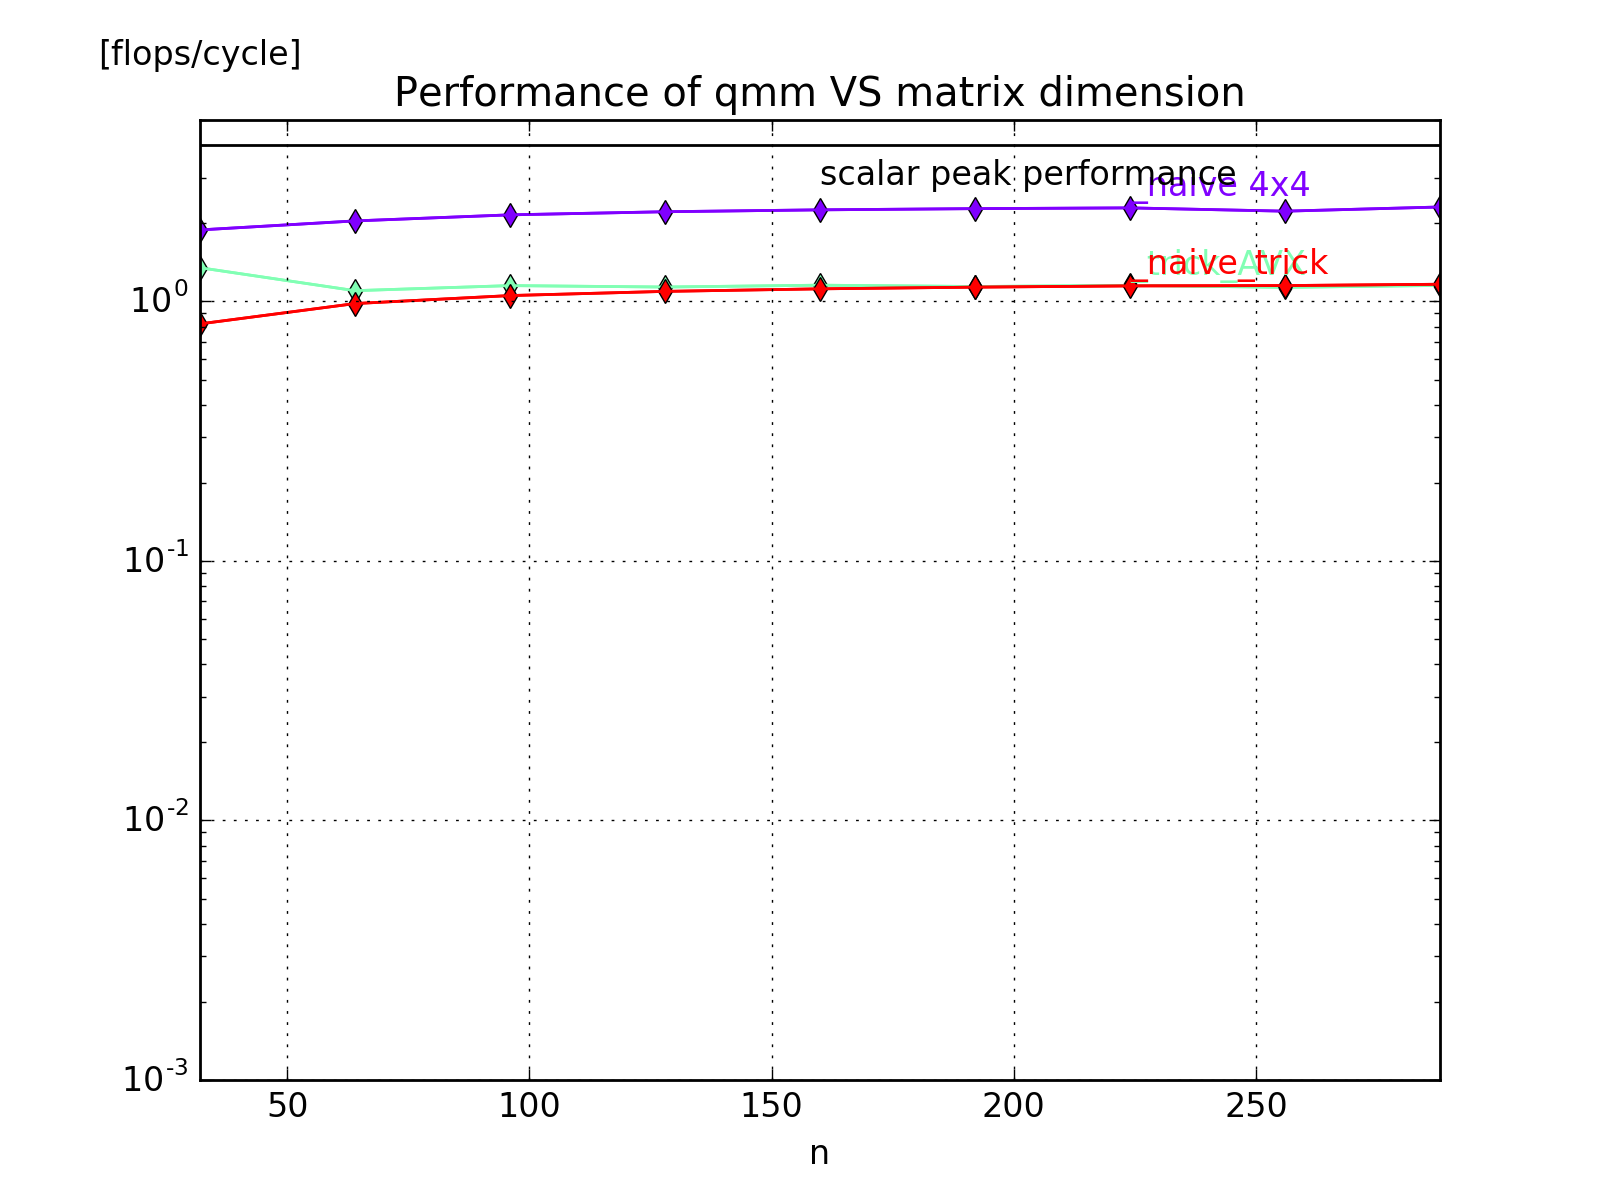
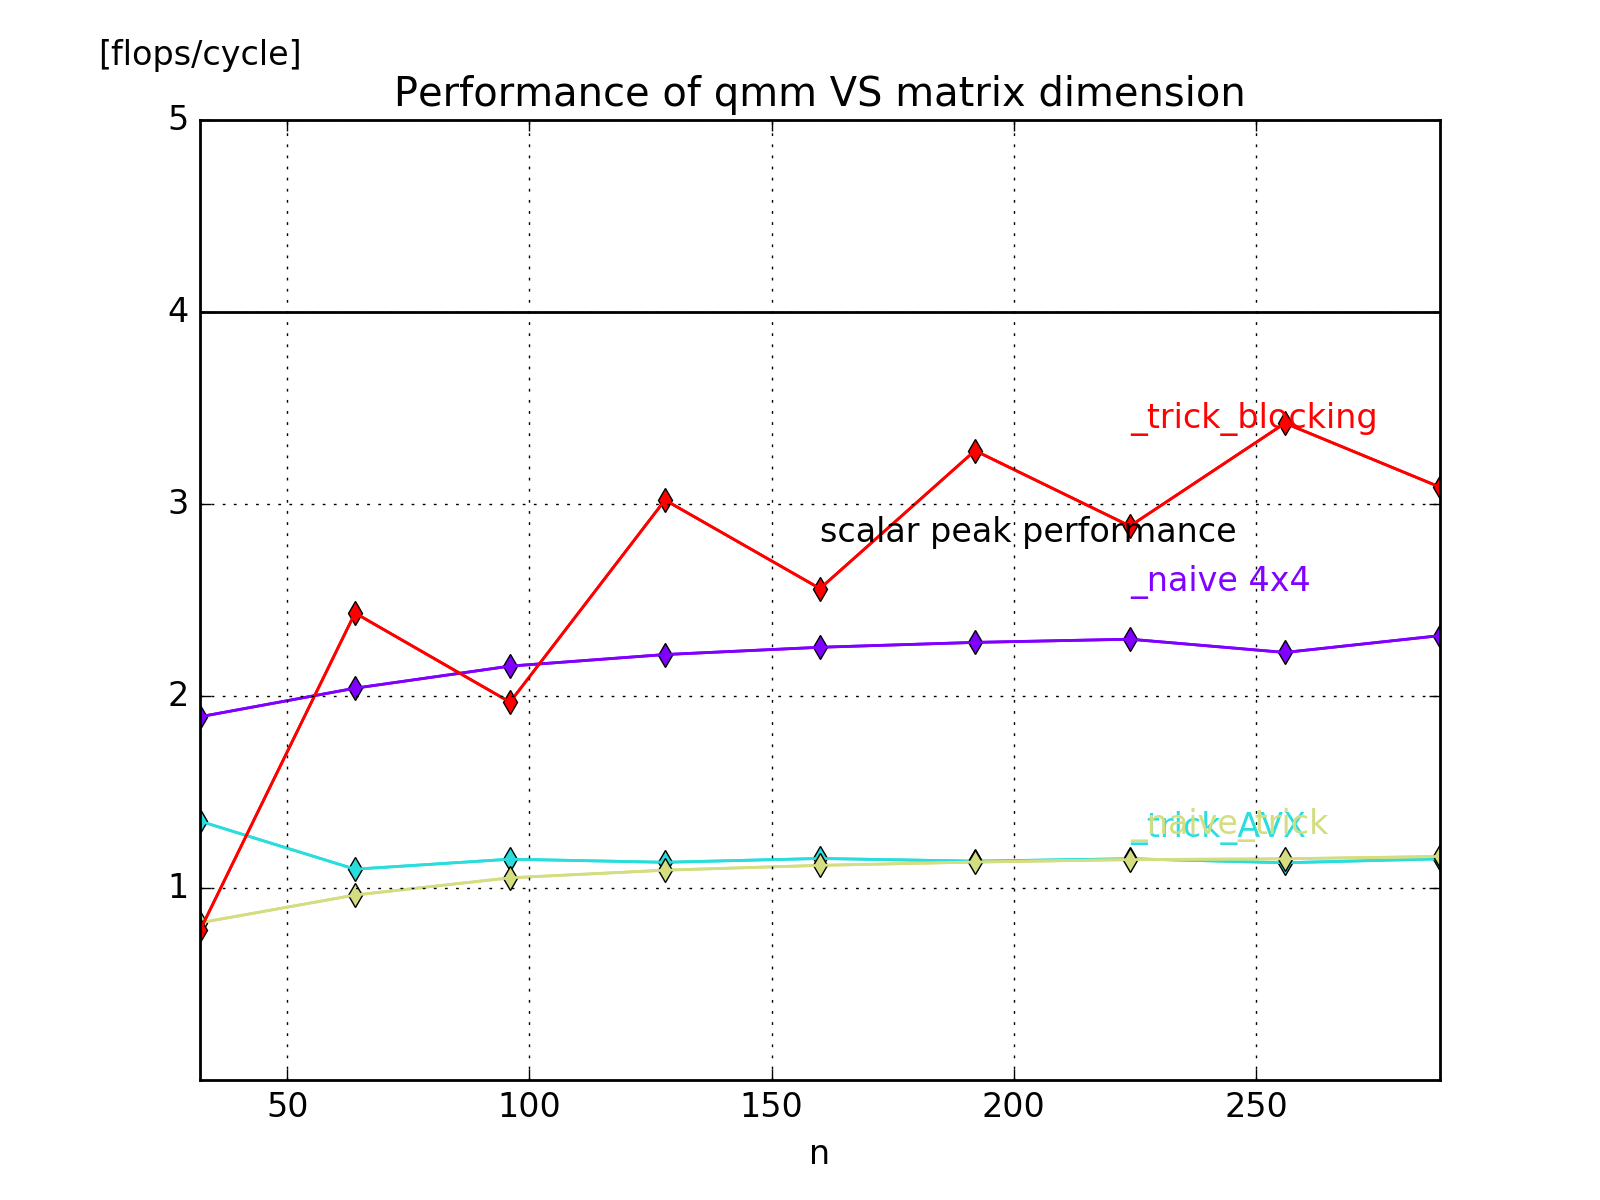
add plots and data for performance qmm_blocking

diff --git a/qmm.h b/qmm.h
@@ -13,6 +13,10 @@ void qmm_trick(float l_scale, float r_scale, float result_scale, uint4x4_t l_off
 	uint4x4_t result_offset, uint4x4_t* l_int_mat, uint4x4_t* r_int_mat, uint4x4_t* result_int_mat, 
 	int n, int k, int m);
 
+void qmm_trick_blocking(float l_scale, float r_scale, float result_scale, uint4x4_t l_offset, uint4x4_t r_offset, 
+	uint4x4_t result_offset, uint4x4_t* l_int_mat, uint4x4_t* r_int_mat, uint4x4_t* result_int_mat, 
+	int n, int k, int m);
+
 void qmm_trick_AVX(float l_scale, float r_scale, float result_scale, uint4x4_t l_offset, uint4x4_t r_offset, 
 	uint4x4_t result_offset, uint4x4_t* l_int_mat, uint4x4_t* r_int_mat, uint4x4_t* result_int_mat, 
 	int n, int k, int m);
